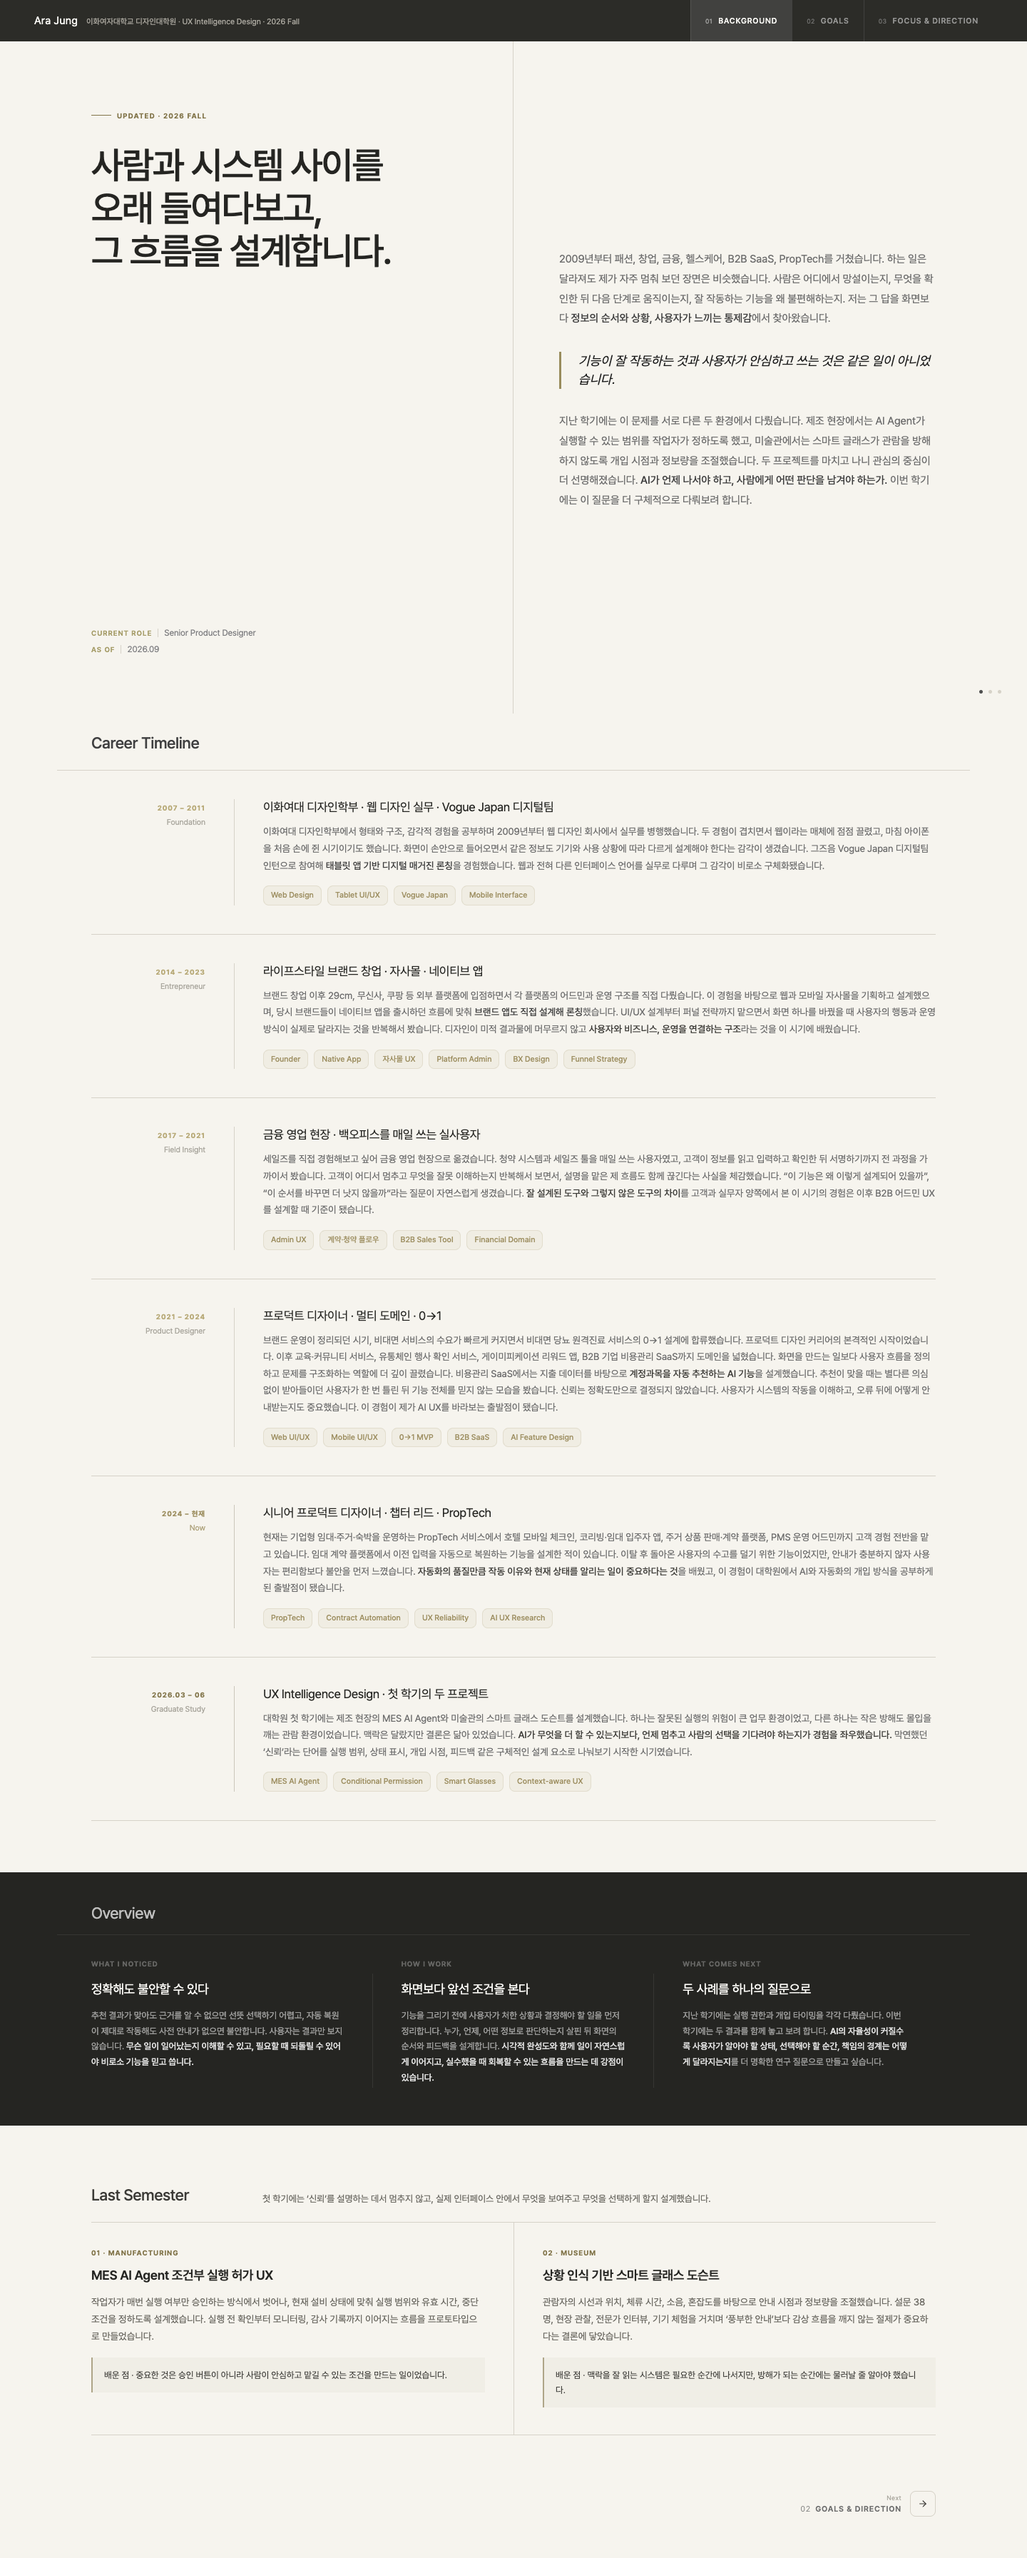
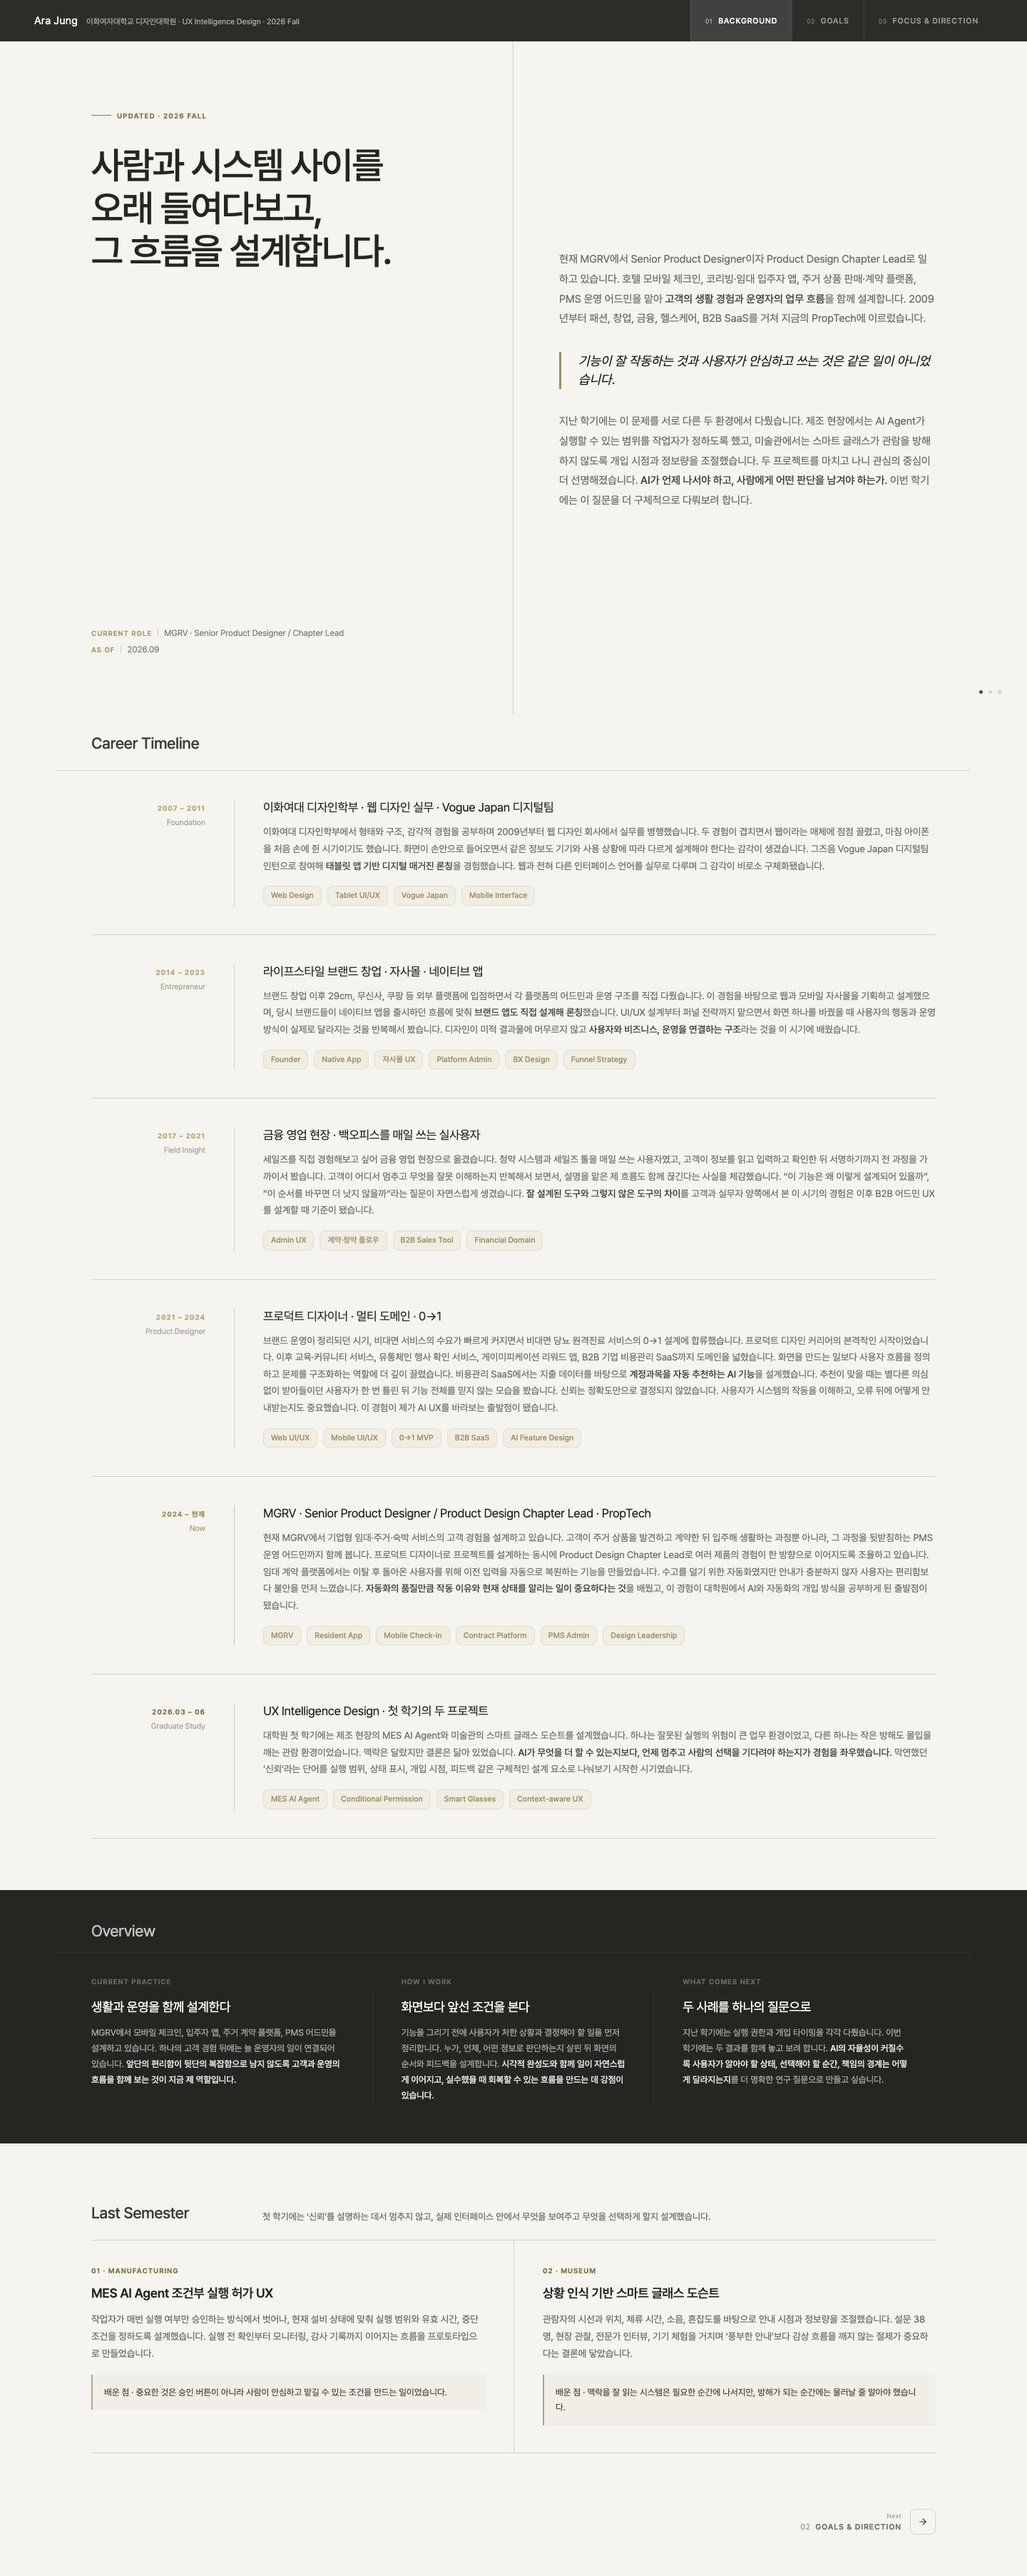
Highlight current MGRV experience

diff --git a/index.html b/index.html
@@ -1358,7 +1358,7 @@
         <div class="hero-meta-item">
           <div class="hero-meta-label">Current Role</div>
           <div class="hero-meta-divider"></div>
-          <div class="hero-meta-value">Senior Product Designer</div>
+          <div class="hero-meta-value">MGRV · Senior Product Designer / Chapter Lead</div>
         </div>
         <div class="hero-meta-item">
           <div class="hero-meta-label">As of</div>
@@ -1369,7 +1369,7 @@
     </div>
     <div class="hero-right">
       <div class="hero-intro">
-        2009년부터 패션, 창업, 금융, 헬스케어, B2B SaaS, PropTech를 거쳤습니다. 하는 일은 달라져도 제가 자주 멈춰 보던 장면은 비슷했습니다. 사람은 어디에서 망설이는지, 무엇을 확인한 뒤 다음 단계로 움직이는지, 잘 작동하는 기능을 왜 불편해하는지. 저는 그 답을 화면보다 <strong style="color:#3d3d3d">정보의 순서와 상황, 사용자가 느끼는 통제감</strong>에서 찾아왔습니다.
+        현재 MGRV에서 Senior Product Designer이자 Product Design Chapter Lead로 일하고 있습니다. 호텔 모바일 체크인, 코리빙·임대 입주자 앱, 주거 상품 판매·계약 플랫폼, PMS 운영 어드민을 맡아 <strong style="color:#3d3d3d">고객의 생활 경험과 운영자의 업무 흐름</strong>을 함께 설계합니다. 2009년부터 패션, 창업, 금융, 헬스케어, B2B SaaS를 거쳐 지금의 PropTech에 이르렀습니다.
       </div>
       <div class="hero-intro-pull">
         기능이 잘 작동하는 것과 사용자가 안심하고 쓰는 것은 같은 일이 아니었습니다.
@@ -1476,15 +1476,17 @@
       </div>
       <div class="timeline-line" style="background: rgba(105,94,67,0.3)"></div>
       <div class="timeline-content">
-        <div class="timeline-title">시니어 프로덕트 디자이너 · 챕터 리드 · PropTech</div>
+        <div class="timeline-title">MGRV · Senior Product Designer / Product Design Chapter Lead · PropTech</div>
         <div class="timeline-body">
-          현재는 기업형 임대·주거·숙박을 운영하는 PropTech 서비스에서 호텔 모바일 체크인, 코리빙·임대 입주자 앱, 주거 상품 판매·계약 플랫폼, PMS 운영 어드민까지 고객 경험 전반을 맡고 있습니다. 임대 계약 플랫폼에서 이전 입력을 자동으로 복원하는 기능을 설계한 적이 있습니다. 이탈 후 돌아온 사용자의 수고를 덜기 위한 기능이었지만, 안내가 충분하지 않자 사용자는 편리함보다 불안을 먼저 느꼈습니다. <strong>자동화의 품질만큼 작동 이유와 현재 상태를 알리는 일이 중요하다는 것</strong>을 배웠고, 이 경험이 대학원에서 AI와 자동화의 개입 방식을 공부하게 된 출발점이 됐습니다.
+          현재 MGRV에서 기업형 임대·주거·숙박 서비스의 고객 경험을 설계하고 있습니다. 고객이 주거 상품을 발견하고 계약한 뒤 입주해 생활하는 과정뿐 아니라, 그 과정을 뒷받침하는 PMS 운영 어드민까지 함께 봅니다. 프로덕트 디자이너로 프로젝트를 설계하는 동시에 Product Design Chapter Lead로 여러 제품의 경험이 한 방향으로 이어지도록 조율하고 있습니다. 임대 계약 플랫폼에서는 이탈 후 돌아온 사용자를 위해 이전 입력을 자동으로 복원하는 기능을 만들었습니다. 수고를 덜기 위한 자동화였지만 안내가 충분하지 않자 사용자는 편리함보다 불안을 먼저 느꼈습니다. <strong>자동화의 품질만큼 작동 이유와 현재 상태를 알리는 일이 중요하다는 것</strong>을 배웠고, 이 경험이 대학원에서 AI와 자동화의 개입 방식을 공부하게 된 출발점이 됐습니다.
         </div>
         <div class="timeline-tags">
-          <span class="ttag">PropTech</span>
-          <span class="ttag">Contract Automation</span>
-          <span class="ttag">UX Reliability</span>
-          <span class="ttag">AI UX Research</span>
+          <span class="ttag">MGRV</span>
+          <span class="ttag">Resident App</span>
+          <span class="ttag">Mobile Check-in</span>
+          <span class="ttag">Contract Platform</span>
+          <span class="ttag">PMS Admin</span>
+          <span class="ttag">Design Leadership</span>
         </div>
       </div>
     </div>
@@ -1518,9 +1520,9 @@
     <div class="who-inner">
       <div class="who-grid">
         <div class="who-card">
-          <div class="who-card-num">What I noticed</div>
-          <div class="who-card-title">정확해도 불안할 수 있다</div>
-          <div class="who-card-body">추천 결과가 맞아도 근거를 알 수 없으면 선뜻 선택하기 어렵고, 자동 복원이 제대로 작동해도 사전 안내가 없으면 불안합니다. 사용자는 결과만 보지 않습니다. <strong style="color:rgba(255,255,255,0.85)">무슨 일이 일어났는지 이해할 수 있고, 필요할 때 되돌릴 수 있어야 비로소 기능을 믿고 씁니다.</strong></div>
+          <div class="who-card-num">Current Practice</div>
+          <div class="who-card-title">생활과 운영을 함께 설계한다</div>
+          <div class="who-card-body">MGRV에서 모바일 체크인, 입주자 앱, 주거 계약 플랫폼, PMS 어드민을 설계하고 있습니다. 하나의 고객 경험 뒤에는 늘 운영자의 일이 연결되어 있습니다. <strong style="color:rgba(255,255,255,0.85)">앞단의 편리함이 뒷단의 복잡함으로 남지 않도록 고객과 운영의 흐름을 함께 보는 것이 지금 제 역할입니다.</strong></div>
         </div>
         <div class="who-card">
           <div class="who-card-num">How I work</div>
